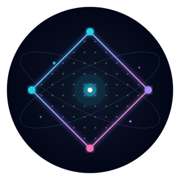
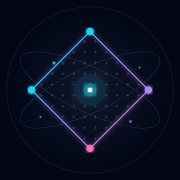
feat(promo,readme): 图标全量换 SVG + PayPal 赞助通道 + README 面向 agent 重写
- promo-page 图标换 SVG：五席头像用 vector 头像（boy-00/04/02/03, girl-01），品牌 logo 用 ai-matrix-logo.svg
- 新增 favicon.ico（16/32/48 多尺寸，由 logo 栅格化）、og.png/apple-touch-icon 以暗底重制（无白底）
- 赞助弹层接入 PayPal 链接（支付宝/微信/PayPal 三通道）
- README 重写：面向 agent 使用者，安装=复制提示词粘给 agent；新增 README.en.md 中英互链

diff --git a/promo-page/assets/sponsor-embed.js b/promo-page/assets/sponsor-embed.js
@@ -20,7 +20,7 @@
   'use strict';
   if (window.SponsorEmbed && window.SponsorEmbed.version) return;
 
-  var MODEL = {"defaultLang":"zh","langs":["zh","en"],"title":{"zh":"赞助支持 · AI Matrix Team","en":"Sponsor AI Matrix Team"},"tagline":{"zh":"五席专家团，开源免费。请他们喝杯咖啡，守门的、施工的、验货的都会记着你的好。","en":"A five-seat crew, free and open source. Buy them a coffee — the gatekeeper, the builder and the auditor will remember you fondly."},"note":{"zh":"","en":""},"foot":{"zh":"由 <a href=\"https://github.com/aispin/iskill-generate-sponsors\" target=\"_blank\" rel=\"noopener noreferrer\">iskill-generate-sponsors</a> 生成 · 2026-10-08","en":"Generated by <a href=\"https://github.com/aispin/iskill-generate-sponsors\" target=\"_blank\" rel=\"noopener noreferrer\">iskill-generate-sponsors</a> · 2026-10-08"},"generatedAt":"2026-10-08","generator":{"name":"iskill-generate-sponsors","url":"https://github.com/aispin/iskill-generate-sponsors"},"ui":{"zh":{"badge":"赞助支持","hint":"点击放大","linksTitle":"其他支持方式","altOf":"{x}收款码","zoomOf":"放大{x}收款码","themeAria":"切换深色 / 浅色","langAria":"切换中文 / English","closeAria":"关闭放大图","popAria":"打开赞助弹窗","popCloseAria":"关闭赞助弹窗","popSecTitle":"也可以点开看","popSecHint":"点下面的按钮，全部赞助方式会在弹层里重新排一遍。","langShort":"EN","empty":"还没有配置外部赞助链接。加一个 <code>--paypal https://paypal.me/你的名字</code> 再来一次。"},"en":{"badge":"SPONSOR","hint":"Tap to enlarge","linksTitle":"Other ways to support","altOf":"{x} QR code","zoomOf":"Enlarge the {x} QR code","themeAria":"Toggle dark / light mode","langAria":"Switch between 中文 / English","closeAria":"Close","popAria":"Open sponsor popup","popCloseAria":"Close sponsor popup","popSecTitle":"Prefer a popup?","popSecHint":"Tap the button below to see every option in a focused overlay.","langShort":"中","empty":"No external sponsor links yet. Add one with <code>--paypal https://paypal.me/yourname</code>, then re-run."}},"qr":[{"key":"alipay","src":"assets/sponsor/alipay.jpg","accent":"#1677FF","label":{"zh":"支付宝","en":"Alipay"},"tip":{"zh":"打开支付宝「扫一扫」","en":"Scan with Alipay"}},{"key":"wechat","src":"assets/sponsor/wechat.jpg","accent":"#07C160","label":{"zh":"微信","en":"WeChat"},"tip":{"zh":"打开微信「扫一扫」","en":"Scan with WeChat"}}],"links":[]};
+  var MODEL = {"defaultLang":"zh","langs":["zh","en"],"title":{"zh":"赞助支持 · AI Matrix Team","en":"Sponsor AI Matrix Team"},"tagline":{"zh":"五席专家团，开源免费。请他们喝杯咖啡，守门的、施工的、验货的都会记着你的好。","en":"A five-seat crew, free and open source. Buy them a coffee — the gatekeeper, the builder and the auditor will remember you fondly."},"note":{"zh":"","en":""},"foot":{"zh":"由 <a href=\"https://github.com/aispin/iskill-generate-sponsors\" target=\"_blank\" rel=\"noopener noreferrer\">iskill-generate-sponsors</a> 生成 · 2026-10-08","en":"Generated by <a href=\"https://github.com/aispin/iskill-generate-sponsors\" target=\"_blank\" rel=\"noopener noreferrer\">iskill-generate-sponsors</a> · 2026-10-08"},"generatedAt":"2026-10-08","generator":{"name":"iskill-generate-sponsors","url":"https://github.com/aispin/iskill-generate-sponsors"},"ui":{"zh":{"badge":"赞助支持","hint":"点击放大","linksTitle":"其他支持方式","altOf":"{x}收款码","zoomOf":"放大{x}收款码","themeAria":"切换深色 / 浅色","langAria":"切换中文 / English","closeAria":"关闭放大图","popAria":"打开赞助弹窗","popCloseAria":"关闭赞助弹窗","popSecTitle":"也可以点开看","popSecHint":"点下面的按钮，全部赞助方式会在弹层里重新排一遍。","langShort":"EN","empty":"还没有配置外部赞助链接。加一个 <code>--paypal https://paypal.me/你的名字</code> 再来一次。"},"en":{"badge":"SPONSOR","hint":"Tap to enlarge","linksTitle":"Other ways to support","altOf":"{x} QR code","zoomOf":"Enlarge the {x} QR code","themeAria":"Toggle dark / light mode","langAria":"Switch between 中文 / English","closeAria":"Close","popAria":"Open sponsor popup","popCloseAria":"Close sponsor popup","popSecTitle":"Prefer a popup?","popSecHint":"Tap the button below to see every option in a focused overlay.","langShort":"中","empty":"No external sponsor links yet. Add one with <code>--paypal https://paypal.me/yourname</code>, then re-run."}},"qr":[{"key":"alipay","src":"assets/sponsor/alipay.jpg","accent":"#1677FF","label":{"zh":"支付宝","en":"Alipay"},"tip":{"zh":"打开支付宝「扫一扫」","en":"Scan with Alipay"}},{"key":"wechat","src":"assets/sponsor/wechat.jpg","accent":"#07C160","label":{"zh":"微信","en":"WeChat"},"tip":{"zh":"打开微信「扫一扫」","en":"Scan with WeChat"}}],"links":[{"label":"PayPal","sub":"www.paypal.com/ncp/payment/SN6RMEF7FNKU4","url":"https://www.paypal.com/ncp/payment/SN6RMEF7FNKU4","accent":"#0070BA"}]};
   var ICON  = {"heart":"<svg viewBox=\"0 0 24 24\" fill=\"none\" stroke=\"currentColor\" stroke-width=\"1.8\" stroke-linecap=\"round\" stroke-linejoin=\"round\"><path d=\"M20.8 8.6c0 4.2-5.4 8-8.8 10.4C8.6 16.6 3.2 12.8 3.2 8.6A4.6 4.6 0 0 1 12 6.4a4.6 4.6 0 0 1 8.8 2.2Z\"/></svg>","link":"<svg viewBox=\"0 0 24 24\" fill=\"none\" stroke=\"currentColor\" stroke-width=\"1.8\" stroke-linecap=\"round\" stroke-linejoin=\"round\"><path d=\"M14 4h6v6\"/><path d=\"M20 4l-8.5 8.5\"/><path d=\"M18 14.5V19a1.5 1.5 0 0 1-1.5 1.5H5A1.5 1.5 0 0 1 3.5 19V7.5A1.5 1.5 0 0 1 5 6h4.5\"/></svg>","qr":"<svg viewBox=\"0 0 24 24\" fill=\"none\" stroke=\"currentColor\" stroke-width=\"1.8\" stroke-linecap=\"round\" stroke-linejoin=\"round\"><rect x=\"3.5\" y=\"3.5\" width=\"6\" height=\"6\" rx=\"1.4\"/><rect x=\"14.5\" y=\"3.5\" width=\"6\" height=\"6\" rx=\"1.4\"/><rect x=\"3.5\" y=\"14.5\" width=\"6\" height=\"6\" rx=\"1.4\"/><path d=\"M14.5 14.5h3v3h-3z\"/><path d=\"M20.5 14.5v6h-6\"/></svg>","expand":"<svg viewBox=\"0 0 24 24\" fill=\"none\" stroke=\"currentColor\" stroke-width=\"1.8\" stroke-linecap=\"round\" stroke-linejoin=\"round\"><path d=\"M9 4H4v5\"/><path d=\"M15 20h5v-5\"/><path d=\"M4 4l6 6\"/><path d=\"M20 20l-6-6\"/></svg>","sun":"<svg viewBox=\"0 0 24 24\" fill=\"none\" stroke=\"currentColor\" stroke-width=\"1.8\" stroke-linecap=\"round\" stroke-linejoin=\"round\"><circle cx=\"12\" cy=\"12\" r=\"4.2\"/><path d=\"M12 2.5v2.2M12 19.3v2.2M2.5 12h2.2M19.3 12h2.2M5.2 5.2l1.6 1.6M17.2 17.2l1.6 1.6M18.8 5.2l-1.6 1.6M6.8 17.2l-1.6 1.6\"/></svg>","moon":"<svg viewBox=\"0 0 24 24\" fill=\"none\" stroke=\"currentColor\" stroke-width=\"1.8\" stroke-linecap=\"round\" stroke-linejoin=\"round\"><path d=\"M20.5 14.2A8.6 8.6 0 0 1 9.8 3.5a8.6 8.6 0 1 0 10.7 10.7Z\"/></svg>"};
   var CSS   = ":host{\n  color-scheme:light;\n  --ink:#0f1b2d; --ink2:#55637a; --ink3:#93a1b4;\n  --line:#e3e9f2; --card:#ffffff; --card-soft:#fafcff;\n  --bg:radial-gradient(900px 480px at 12% -8%,#e8f1ff 0,transparent 62%),\n       radial-gradient(760px 420px at 92% 4%,#e6fbf2 0,transparent 58%),\n       linear-gradient(180deg,#f5f8fc,#eef3f9);\n  --badge-fg:#0b7f68; --badge-bg:#e2f7f1; --badge-line:#bde9dd;\n  --qr-bg:#ffffff; --qr-line:#e3e9f2;\n  --shadow:0 1px 2px rgba(16,32,56,.04), 0 12px 32px -12px rgba(16,32,56,.18);\n  --shadow-hi:0 1px 2px rgba(16,32,56,.05), 0 22px 46px -16px rgba(16,32,56,.26);\n  --code-bg:#eef2f8;\n  --ui-bg:rgba(255,255,255,.82); --ui-line:#e3e9f2;\n  --chip-bg:color-mix(in srgb,var(--accent) 12%,var(--card));\n  --chip-fg:color-mix(in srgb,var(--accent) 62%,var(--ink));\n  --chip-line:color-mix(in srgb,var(--accent) 26%,var(--card));\n}\n:host([data-theme=\"dark\"]){\n  color-scheme:dark;\n  --ink:#eaf0f8; --ink2:#9fadc0; --ink3:#7b8a9d;\n  --line:#22303f; --card:#141d29; --card-soft:#192433;\n  --bg:radial-gradient(900px 480px at 12% -8%,#152337 0,transparent 62%),\n       radial-gradient(760px 420px at 92% 4%,#122a26 0,transparent 58%),\n       linear-gradient(180deg,#0d131d,#111a26);\n  --badge-fg:#8ff0d4; --badge-bg:#122a26; --badge-line:#1e4a41;\n  --qr-bg:#ffffff; --qr-line:#2b3a4b;\n  --shadow:0 1px 2px rgba(0,0,0,.35), 0 12px 32px -12px rgba(0,0,0,.65);\n  --shadow-hi:0 1px 2px rgba(0,0,0,.4), 0 22px 46px -16px rgba(0,0,0,.75);\n  --code-bg:#1b2635;\n  --ui-bg:rgba(20,29,41,.86); --ui-line:#26364a;\n}\n@media(prefers-color-scheme:dark){\n  :host(:not([data-theme=\"light\"])){\n    color-scheme:dark;\n    --ink:#eaf0f8; --ink2:#9fadc0; --ink3:#7b8a9d;\n    --line:#22303f; --card:#141d29; --card-soft:#192433;\n    --bg:radial-gradient(900px 480px at 12% -8%,#152337 0,transparent 62%),\n         radial-gradient(760px 420px at 92% 4%,#122a26 0,transparent 58%),\n         linear-gradient(180deg,#0d131d,#111a26);\n    --badge-fg:#8ff0d4; --badge-bg:#122a26; --badge-line:#1e4a41;\n    --qr-bg:#ffffff; --qr-line:#2b3a4b;\n    --shadow:0 1px 2px rgba(0,0,0,.35), 0 12px 32px -12px rgba(0,0,0,.65);\n    --shadow-hi:0 1px 2px rgba(0,0,0,.4), 0 22px 46px -16px rgba(0,0,0,.75);\n    --code-bg:#1b2635;\n    --ui-bg:rgba(20,29,41,.86); --ui-line:#26364a;\n  }\n}\n*{box-sizing:border-box}\n:host{-webkit-text-size-adjust:100%}\nbody{\n  margin:0; padding:clamp(22px,4vw,36px) clamp(14px,3vw,18px) clamp(34px,5vw,52px); color:var(--ink);\n  font:15px/1.6 -apple-system,BlinkMacSystemFont,\"Segoe UI\",\"PingFang SC\",\"Hiragino Sans GB\",\"Microsoft YaHei\",sans-serif;\n  background:var(--bg); background-attachment:fixed;\n  min-height:100vh; transition:color .2s;\n}\n.wrap{max-width:720px;margin:0 auto}\n\n.hero{text-align:center;margin-bottom:20px}\n.badge{\n  display:inline-flex;align-items:center;gap:6px;\n  font-size:10.5px;font-weight:700;letter-spacing:.16em;\n  color:var(--badge-fg);background:var(--badge-bg);border:1px solid var(--badge-line);\n  padding:4px 11px;border-radius:999px;\n}\n.badge svg{width:12px;height:12px}\n.hero h1{font-size:clamp(19px,3vw,25px);line-height:1.3;margin:10px 0 5px;letter-spacing:-.01em}\n.lede{margin:0;color:var(--ink2);font-size:13.5px}\n\n/* 所有赞助方式（码 + 链接）通栏一行，窄屏自动换行 */\n.qrs{display:flex;flex-wrap:wrap;gap:10px;justify-content:center;align-items:stretch}\n\n.card{\n  --accent:#10C8A1;\n  position:relative;margin:0;width:200px;max-width:100%;\n  background:var(--card);border:1px solid var(--line);border-radius:14px;\n  box-shadow:var(--shadow);padding:10px;\n  display:flex;flex-direction:column;gap:7px;\n  transition:transform .18s,box-shadow .18s;\n  overflow:hidden;\n}\n.card::before{\n  content:\"\";position:absolute;inset:0 0 auto;height:3px;\n  background:linear-gradient(90deg,var(--accent),color-mix(in srgb,var(--accent) 45%,var(--card)));\n}\n.card:hover{transform:translateY(-2px);box-shadow:var(--shadow-hi)}\n\n.card-head{display:flex;align-items:center;gap:8px}\n.chip{\n  display:inline-flex;align-items:center;gap:5px;\n  font-size:11.5px;font-weight:650;\n  color:var(--chip-fg);background:var(--chip-bg);border:1px solid var(--chip-line);\n  padding:3px 9px;border-radius:999px;\n}\n.chip svg{width:12px;height:12px}\n.hint{font-size:10.5px;color:var(--ink3);white-space:nowrap}\n\n.qr{\n  position:relative;display:block;width:100%;padding:7px;margin:0;cursor:zoom-in;\n  background:var(--qr-bg);border:1px solid var(--qr-line);border-radius:10px;\n  transition:border-color .2s,box-shadow .2s;\n}\n.qr:hover{border-color:color-mix(in srgb,var(--accent) 45%,var(--qr-line));box-shadow:0 0 0 3px color-mix(in srgb,var(--accent) 14%,transparent)}\n.qr:focus-visible{outline:2px solid var(--accent);outline-offset:2px}\n.qr img{display:block;width:100%;height:auto;border-radius:5px}\n.zoom{\n  position:absolute;right:12px;bottom:12px;width:26px;height:26px;border-radius:8px;\n  display:grid;place-items:center;color:#fff;background:rgba(15,27,45,.55);\n  backdrop-filter:blur(6px);opacity:0;transition:opacity .2s;\n}\n.zoom svg{width:14px;height:14px}\n.qr:hover .zoom{opacity:1}\n\n/* 链接卡与码卡同构：顶部 chip（图标+名称），中间圆角方容器居中放 名称+链接 */\n.link{\n  --accent:#10C8A1;\n  position:relative;margin:0;width:200px;max-width:100%;\n  display:flex;flex-direction:column;gap:7px;\n  padding:10px;text-decoration:none;color:var(--ink);\n  background:var(--card);border:1px solid var(--line);border-radius:14px;\n  box-shadow:var(--shadow);\n  transition:transform .18s,box-shadow .18s;\n  overflow:hidden;\n}\n.link::before{\n  content:\"\";position:absolute;inset:0 0 auto;height:3px;\n  background:linear-gradient(90deg,var(--accent),color-mix(in srgb,var(--accent) 45%,var(--card)));\n}\n.link:hover{transform:translateY(-2px);box-shadow:var(--shadow-hi)}\n.link:focus-visible{outline:2px solid var(--accent);outline-offset:2px}\n.link-body{\n  flex:1;min-height:150px;\n  display:flex;flex-direction:column;align-items:center;justify-content:center;gap:3px;\n  /* 纯 CSS 生成式底纹：角落两团品牌色柔光 + 同心细环（guilloché 质感），随渠道 accent 变色 */\n  background:\n    radial-gradient(140px 100px at 84% -12%, color-mix(in srgb, var(--accent) 15%, transparent), transparent 70%),\n    radial-gradient(160px 120px at 8% 110%, color-mix(in srgb, var(--accent) 10%, transparent), transparent 72%),\n    repeating-radial-gradient(circle at 108% -18%,\n      color-mix(in srgb, var(--accent) 7%, transparent) 0 1.5px,\n      transparent 1.5px 13px),\n    var(--qr-bg);\n  border:1px solid var(--qr-line);border-radius:10px;\n  padding:7px;text-align:center;\n  /* 容器恒为白底（与码面一致），文字固定深色，不随主题翻转 */\n  color:#0f1b2d;\n}\n.link-name{font-weight:650;font-size:15px}\n.link-sub{font-size:11.5px;color:#55637a;max-width:100%;overflow:hidden;text-overflow:ellipsis;white-space:nowrap}\n.empty{flex-basis:100%;color:var(--ink2);text-align:center}\n.empty code{background:var(--code-bg);padding:2px 6px;border-radius:6px;font-size:13.5px}\n\n.note{margin:16px 0 0;text-align:center;color:var(--ink2);font-size:12.5px}\n.foot{margin-top:22px;text-align:center;font-size:12px;color:var(--ink3)}\n.foot a{color:var(--ink2);text-decoration:none;border-bottom:1px solid var(--line)}\n.foot a:hover{color:var(--ink)}\n\n.tools{position:fixed;top:14px;right:14px;z-index:20;display:flex;gap:7px}\n@media (max-width:520px){.tools{top:10px;right:10px;gap:6px}}\n.icon-btn{\n  width:32px;height:32px;border-radius:10px;padding:0;\n  display:grid;place-items:center;cursor:pointer;color:var(--ink2);\n  background:var(--ui-bg);border:1px solid var(--ui-line);\n  backdrop-filter:blur(10px);box-shadow:0 4px 14px -8px rgba(16,32,56,.5);\n  font-family:inherit;font-size:11.5px;font-weight:700;letter-spacing:.02em;\n}\n@media (max-width:520px){.icon-btn{width:30px;height:30px}}\n.icon-btn:hover{color:var(--ink)}\n.icon-btn svg{width:15px;height:15px}\n.icon-btn:focus-visible{outline:2px solid var(--accent);outline-offset:2px}\n\n.lightbox{\n  position:fixed;inset:0;z-index:60;display:flex;flex-direction:column;\n  align-items:center;justify-content:center;gap:16px;\n  background:rgba(9,16,28,.78);backdrop-filter:blur(10px);\n  padding:32px;cursor:zoom-out;animation:fade .18s ease;\n}\n.lightbox[hidden]{display:none}\n.lightbox img{\n  max-width:min(440px,86vw);max-height:76vh;width:auto;height:auto;\n  background:#fff;padding:14px;border-radius:20px;\n  box-shadow:0 30px 70px -20px rgba(0,0,0,.6);\n}\n.lb-cap{color:#e8eef7;font-size:14.5px;margin:0;letter-spacing:.02em}\n.lb-close{\n  position:absolute;top:20px;right:22px;width:40px;height:40px;border-radius:50%;\n  border:1px solid rgba(255,255,255,.3);background:rgba(255,255,255,.12);color:#fff;\n  font-size:22px;line-height:1;cursor:pointer;\n}\n@keyframes fade{from{opacity:0}to{opacity:1}}\n\n@media(prefers-reduced-motion:reduce){*{transition:none!important;animation:none!important}}\n@media print{\n  body{background:#fff;padding:0}\n  .card,.link{box-shadow:none;break-inside:avoid;background:#fff}\n  .qr{cursor:default}\n  .zoom,.foot,.tools{display:none}\n  .lightbox{display:none}\n}\n.icon-btn .ic-moon{display:none}\n:host([data-theme=\"dark\"]) .icon-btn .ic-sun{display:none}\n:host([data-theme=\"dark\"]) .icon-btn .ic-moon{display:block}\n@media(prefers-color-scheme:dark){\n  :host(:not([data-theme=\"light\"])) .icon-btn .ic-sun{display:none}\n  :host(:not([data-theme=\"light\"])) .icon-btn .ic-moon{display:block}\n}\n\n/* ── 响应式：单列时卡片通栏，只留**左右各 40px** 边距；卡片与内容同步放大 ──\n   原来卡片写死 200px，390 屏下左右各空出约 95px —— 码被挤小、两边一大片白\n   （2026-10-02 用户反馈）。现在 body 左右 40px + 卡片 width:100%，\n   于是卡片宽度 = 视口 − 80（390 屏 → 310px），内边距/字号/圆角一起加上去。 */\n@media (max-width:520px){\n  body{padding:22px 40px 38px}\n  .hero{margin-bottom:16px}\n  .qrs{gap:12px}\n  .card,.link{width:100%}\n  .card{padding:12px;border-radius:14px;gap:9px}\n  .chip{font-size:12.5px;padding:4px 11px}\n  .chip svg{width:13px;height:13px}\n  .hint{font-size:11.5px}\n  .qr{padding:10px;border-radius:12px}\n  .qr img{border-radius:7px}\n  .link{padding:12px;border-radius:14px;gap:9px}\n  .link-body{min-height:0;aspect-ratio:6/5;border-radius:12px}\n  .link-name{font-size:17px}\n  .link-sub{font-size:12.5px}\n  .lightbox{padding:20px}\n  .lb-close{top:14px;right:16px}\n}\n.sponsor-btn{\n  display:inline-flex;align-items:center;gap:8px;\n  padding:11px 22px;border-radius:999px;cursor:pointer;\n  font:inherit;font-size:14px;font-weight:700;letter-spacing:.04em;\n  color:#fff;border:0;\n  background:linear-gradient(135deg,var(--brand,#10C8A1),color-mix(in srgb,var(--brand,#10C8A1) 55%,#6366F1));\n  box-shadow:0 10px 26px -12px color-mix(in srgb,var(--brand,#10C8A1) 70%,transparent);\n  transition:transform .18s,box-shadow .18s;\n}\n.sponsor-btn svg{width:16px;height:16px}\n.sponsor-btn:hover{transform:translateY(-2px);box-shadow:0 14px 30px -12px color-mix(in srgb,var(--brand,#10C8A1) 80%,transparent)}\n.sponsor-btn:focus-visible{outline:2px solid var(--brand,#10C8A1);outline-offset:3px}\n\n.pop{\n  position:fixed;inset:0;z-index:50;display:flex;align-items:center;justify-content:center;\n  background:rgba(9,16,28,.62);backdrop-filter:blur(8px);\n  padding:22px;animation:fade .18s ease;\n}\n.pop[hidden]{display:none}\n.pop-card{\n  position:relative;width:min(700px,100%);max-height:86vh;overflow:auto;\n  background:var(--card);border:1px solid var(--line);border-radius:20px;\n  box-shadow:var(--shadow-hi);padding:22px 18px 18px;\n}\n.pop-head{margin-bottom:16px}\n.pop-head h1{font-size:19px;margin:12px 0 0}\n.pop-close{\n  position:absolute;top:12px;right:14px;width:32px;height:32px;border-radius:50%;\n  border:1px solid var(--line);background:var(--ui-bg);color:var(--ink2);\n  font-size:18px;line-height:1;cursor:pointer;\n}\n.pop-close:hover{color:var(--ink)}\n.pop-card .note{margin-top:14px}\n.pop-card .qrs{gap:12px}\n/* 弹性卡片：先挤到 150px，挤不动才换行 —— 桌面端（≥561px）三种方式恒在一行 */\n.pop-card .qrs > .card,\n.pop-card .qrs > .link{width:auto;flex:1 1 150px;max-width:200px}\n/* 手机：一行一个，卡片同步放大到「距屏幕左右各 40px」——\n   24（.pop 内边距）+ 16（.pop-card 内边距）= 40，与首屏单列卡片对齐；\n   卡片内容（内边距 / chip / 码面圆角）跟着一起放大。 */\n@media (max-width:560px){\n  .pop{padding:24px}\n  .pop-card{padding:20px 16px 18px;border-radius:18px}\n  .pop-card .qrs{gap:14px}\n  .pop-card .qrs > .card,\n  .pop-card .qrs > .link{flex-basis:100%;max-width:none}\n  .pop-card .card,\n  .pop-card .link{padding:12px;border-radius:14px;gap:9px}\n  .pop-card .chip{font-size:12.5px;padding:4px 11px}\n  .pop-card .chip svg{width:13px;height:13px}\n  .pop-card .qr{padding:10px;border-radius:12px}\n  .pop-card .qr img{border-radius:7px}\n  .pop-card .link-body{min-height:0;aspect-ratio:6/5;border-radius:12px}\n  .pop-card .link-name{font-size:17px}\n  .pop-card .link-sub{font-size:12.5px}\n}\n:host{\n  display:block;position:fixed;inset:0;z-index:2147483000;pointer-events:none;\n  font:15px/1.6 -apple-system,BlinkMacSystemFont,\"Segoe UI\",\"PingFang SC\",\"Hiragino Sans GB\",\"Microsoft YaHei\",sans-serif;\n  color:var(--ink);\n}\n.pop,.lightbox{pointer-events:auto}";
 

diff --git a/promo-page/assets/content.js b/promo-page/assets/content.js
@@ -20,18 +20,18 @@ window.PROMO = {
     members: {
       html: {
         zh: '<div class="grid">' +
-          '<div class="card feat"><img class="member-av" src="assets/avatars/team-lead.png" alt="PC" loading="lazy"><h3>PC · 团长</h3><p class="member-role">产研高级总监 · 兼风控守门</p><p>现京东资深总监，兼职产研首脑。老广东人，短发，薄肌，大抵是个真汉子。他极擅交际，常引来女设计师与产品经理送的小吃。风控的门，便由他守着罢。</p></div>' +
-          '<div class="card feat"><img class="member-av" src="assets/avatars/product-designer.png" alt="毛毛" loading="lazy"><h3>毛毛</h3><p class="member-role">资深产品设计师</p><p>前京东的美人，黑长直。如今身兼产品、交互、视觉三职。她是极看透了的，喜欢谈恋爱，却不愿踏进婚姻的坟。这大抵是新时代女性的一种清醒罢。</p></div>' +
-          '<div class="card feat"><img class="member-av" src="assets/avatars/developer.png" alt="Bruce" loading="lazy"><h3>Bruce</h3><p class="member-role">资深研发工程师 · 兼架构速断</p><p>前美团全栈悍将，广东茂名人。终日与编码纠缠还不够，偏要去徒步，去踢足球。南国的烈日，大约给了他无尽的精力。</p></div>' +
-          '<div class="card feat"><img class="member-av" src="assets/avatars/qa.png" alt="石头" loading="lazy"><h3>石头</h3><p class="member-role">资深质检工程师 · 独立审计</p><p>中通资深研发专家。广西容县人，两眼一睁，便能看穿千万BUG。若想吃正宗沙田柚，找他，大抵是错不了的。</p></div>' +
-          '<div class="card feat"><img class="member-av" src="assets/avatars/devops.png" alt="波波" loading="lazy"><h3>波波</h3><p class="member-role">资深运维工程师 · 发布回滚</p><p>某公司CEO，兼运维工程师。久居西安数十载，80后第一批软件工程师。性格豪爽，极爱饮酒。代码与酒，怕是他生命中唯二的解药。</p></div>' +
+          '<div class="card feat"><img class="member-av" src="assets/avatars/team-lead.svg" alt="PC" loading="lazy"><h3>PC · 团长</h3><p class="member-role">产研高级总监 · 兼风控守门</p><p>现京东资深总监，兼职产研首脑。老广东人，短发，薄肌，大抵是个真汉子。他极擅交际，常引来女设计师与产品经理送的小吃。风控的门，便由他守着罢。</p></div>' +
+          '<div class="card feat"><img class="member-av" src="assets/avatars/product-designer.svg" alt="毛毛" loading="lazy"><h3>毛毛</h3><p class="member-role">资深产品设计师</p><p>前京东的美人，黑长直。如今身兼产品、交互、视觉三职。她是极看透了的，喜欢谈恋爱，却不愿踏进婚姻的坟。这大抵是新时代女性的一种清醒罢。</p></div>' +
+          '<div class="card feat"><img class="member-av" src="assets/avatars/developer.svg" alt="Bruce" loading="lazy"><h3>Bruce</h3><p class="member-role">资深研发工程师 · 兼架构速断</p><p>前美团全栈悍将，广东茂名人。终日与编码纠缠还不够，偏要去徒步，去踢足球。南国的烈日，大约给了他无尽的精力。</p></div>' +
+          '<div class="card feat"><img class="member-av" src="assets/avatars/qa.svg" alt="石头" loading="lazy"><h3>石头</h3><p class="member-role">资深质检工程师 · 独立审计</p><p>中通资深研发专家。广西容县人，两眼一睁，便能看穿千万BUG。若想吃正宗沙田柚，找他，大抵是错不了的。</p></div>' +
+          '<div class="card feat"><img class="member-av" src="assets/avatars/devops.svg" alt="波波" loading="lazy"><h3>波波</h3><p class="member-role">资深运维工程师 · 发布回滚</p><p>某公司CEO，兼运维工程师。久居西安数十载，80后第一批软件工程师。性格豪爽，极爱饮酒。代码与酒，怕是他生命中唯二的解药。</p></div>' +
           '</div>',
         en: '<div class="grid">' +
-          '<div class="card feat"><img class="member-av" src="assets/avatars/team-lead.png" alt="PC" loading="lazy"><h3>PC · Lead</h3><p class="member-role">Delivery Director · Risk gatekeeper</p><p>Senior director at JD.com and the head of product-engineering. A Cantonese veteran — short hair, lean muscle, very much his own man. So sociable that the designers and PMs keep sending snacks his way. The gate of risk control? He holds it.</p></div>' +
-          '<div class="card feat"><img class="member-av" src="assets/avatars/product-designer.png" alt="Mao" loading="lazy"><h3>毛毛 Mao</h3><p class="member-role">Senior Product Designer</p><p>Ex-JD.com. Product, interaction and visual design — three hats, one head. She has seen through it all: loves romance, wants no part in the grave of marriage. Call it the clarity of a new-era woman.</p></div>' +
-          '<div class="card feat"><img class="member-av" src="assets/avatars/developer.png" alt="Bruce" loading="lazy"><h3>Bruce</h3><p class="member-role">Senior Development Engineer</p><p>Ex-Meercat (Meituan) full-stack warrior from Maoming, Guangdong. Coding all day is not enough — he also hikes and plays football. The southern sun must have wired him with endless energy.</p></div>' +
-          '<div class="card feat"><img class="member-av" src="assets/avatars/qa.png" alt="Xue" loading="lazy"><h3>石头 Xue</h3><p class="member-role">Senior QA Engineer · Independent audit</p><p>Senior engineer at ZTO Express, from Rongxian, Guangxi. Eyes open, a thousand bugs spotted. Want an authentic Shatian pomelo? Ask him — odds are he won\'t disappoint.</p></div>' +
-          '<div class="card feat"><img class="member-av" src="assets/avatars/devops.png" alt="Bo" loading="lazy"><h3>波波 Bo</h3><p class="member-role">Senior DevOps Engineer · Release &amp; rollback</p><p>CEO of a company, and a DevOps engineer. Two decades in Xi\'an, among the first batch of software engineers of the 80s generation. Bold and fond of his drinks — code and liquor are the only two antidotes in his life.</p></div>' +
+          '<div class="card feat"><img class="member-av" src="assets/avatars/team-lead.svg" alt="PC" loading="lazy"><h3>PC · Lead</h3><p class="member-role">Delivery Director · Risk gatekeeper</p><p>Senior director at JD.com and the head of product-engineering. A Cantonese veteran — short hair, lean muscle, very much his own man. So sociable that the designers and PMs keep sending snacks his way. The gate of risk control? He holds it.</p></div>' +
+          '<div class="card feat"><img class="member-av" src="assets/avatars/product-designer.svg" alt="Mao" loading="lazy"><h3>毛毛 Mao</h3><p class="member-role">Senior Product Designer</p><p>Ex-JD.com. Product, interaction and visual design — three hats, one head. She has seen through it all: loves romance, wants no part in the grave of marriage. Call it the clarity of a new-era woman.</p></div>' +
+          '<div class="card feat"><img class="member-av" src="assets/avatars/developer.svg" alt="Bruce" loading="lazy"><h3>Bruce</h3><p class="member-role">Senior Development Engineer</p><p>Ex-Meercat (Meituan) full-stack warrior from Maoming, Guangdong. Coding all day is not enough — he also hikes and plays football. The southern sun must have wired him with endless energy.</p></div>' +
+          '<div class="card feat"><img class="member-av" src="assets/avatars/qa.svg" alt="Xue" loading="lazy"><h3>石头 Xue</h3><p class="member-role">Senior QA Engineer · Independent audit</p><p>Senior engineer at ZTO Express, from Rongxian, Guangxi. Eyes open, a thousand bugs spotted. Want an authentic Shatian pomelo? Ask him — odds are he won\'t disappoint.</p></div>' +
+          '<div class="card feat"><img class="member-av" src="assets/avatars/devops.svg" alt="Bo" loading="lazy"><h3>波波 Bo</h3><p class="member-role">Senior DevOps Engineer · Release &amp; rollback</p><p>CEO of a company, and a DevOps engineer. Two decades in Xi\'an, among the first batch of software engineers of the 80s generation. Bold and fond of his drinks — code and liquor are the only two antidotes in his life.</p></div>' +
           '</div>'
       }
     },

diff --git a/promo-page/index.html b/promo-page/index.html
@@ -15,7 +15,8 @@
 <meta property="og:url" content="https://aispin.github.io/ai-matrix-team/" />
 <meta property="og:image" content="assets/og.png" />
 <meta name="twitter:card" content="summary_large_image" />
-<link rel="icon" type="image/png" href="assets/team.png" />
+<link rel="icon" type="image/svg+xml" href="assets/logo.svg" />
+<link rel="icon" type="image/x-icon" href="assets/favicon.ico" sizes="32x32" />
 <link rel="apple-touch-icon" href="assets/apple-touch-icon.png" />
 <link rel="alternate" hreflang="zh-CN" href="?lang=zh" />
 <link rel="alternate" hreflang="en" href="?lang=en" />
@@ -48,7 +49,7 @@
 <header class="topbar">
   <div class="wrap">
     <a class="brand" href="#">
-      <img src="assets/team.png" alt="" width="26" height="26" />
+      <img src="assets/logo.svg" alt="" width="26" height="26" />
       <span>AI Matrix Team</span>
     </a>
     <nav class="nav">
@@ -97,7 +98,7 @@
           <a class="btn" id="hero-repo" href="#" target="_blank" rel="noopener noreferrer">
             <span data-i18n="hero.ctaSecondary">看源码</span>
           </a>
-          <!-- promo-sponsor:btn -->
+                    <!-- promo-sponsor:btn -->
           <button class="btn" type="button" id="hero-sponsor" data-sponsor-open>
             <svg viewBox="0 0 24 24" fill="none" stroke="currentColor" stroke-width="1.7" stroke-linecap="round" stroke-linejoin="round" aria-hidden="true"><path d="M20.8 8.6c0 4.2-5.4 8-8.8 10.4C8.6 16.6 3.2 12.8 3.2 8.6A4.6 4.6 0 0 1 12 6.4a4.6 4.6 0 0 1 8.8 2.2Z"/></svg>
             <span data-i18n="hero.ctaSponsor">赞助</span>

diff --git a/README.en.md b/README.en.md
@@ -1,0 +1,85 @@
+# AI Matrix Team · A five-seat AI delivery crew
+
+English | [简体中文](README.md)
+
+> **Delivery discipline for AI agents, not another flowchart for humans.** Five seats, five gates: case building → requirements & acceptance → code with quick calls → independent QA → release & rollback, plus a shared-surface gatekeeper. Every phase passes a machine gate; every handoff leaves an auditable trail.
+
+AI Matrix Team is a virtual product-engineering task force. Requirements, product and design all the way to dev, QA and ops — each seat holds one gate. Too many agents burn tokens without moving the work; too few breed confusion and hallucinations. Five is just right.
+
+## The crew
+
+- **PC** (Delivery Director · Lead · Risk gatekeeper): Senior director at JD.com and the head of product-engineering. A Cantonese veteran — short hair, lean muscle, very much his own man. The gate of risk control? He holds it.
+- **毛毛 Mao** (Senior Product Designer · BRD→PRD→interactive draft in one chain): Ex-JD.com. Product, interaction and visual design — three hats, one head. She has seen through it all: loves romance, wants no part in the grave of marriage.
+- **Bruce** (Senior Development Engineer · Architecture quick calls): Ex-Meituan full-stack warrior from Maoming, Guangdong. Coding all day is not enough — he also hikes and plays football.
+- **石头 Xue** (Senior QA Engineer · Independent audit): Senior engineer at ZTO Express, from Rongxian, Guangxi. Eyes open, a thousand bugs spotted. Want an authentic Shatian pomelo? Ask him.
+- **波波 Bo** (Senior DevOps Engineer · Release & rollback): CEO of a company, and a DevOps engineer. Two decades in Xi'an, among the first batch of software engineers of the 80s generation. Code and liquor are the only two antidotes in his life.
+
+## Install: paste the prompt to your agent
+
+**Regular agents (Codex / Claude Code) install it as a skill; WorkBuddy installs the whole expert team.** Copy one block below and paste it into the right chat — the agent does the rest.
+
+**Codex** (into `~/.codex/skills/` or the project's `.agents/skills/`):
+
+```text
+Install https://github.com/aispin/ai-matrix-team as a skill: clone it into ~/.codex/skills/ai-matrix-team, then read its SKILL.md and tell me how to use it
+```
+
+**Claude Code** (into `~/.claude/skills/` or the project's `.claude/skills/`):
+
+```text
+Install https://github.com/aispin/ai-matrix-team as a skill: clone it into ~/.claude/skills/ai-matrix-team, then read its SKILL.md and tell me how to use it
+```
+
+**WorkBuddy** (expert-team form, the whole crew onboards):
+
+```text
+Install the AI Matrix Team expert team: https://github.com/aispin/ai-matrix-team — follow SKILL.md to onboard this project (project profile, skill symlinks, expert packages), then run a gate check
+```
+
+You can also search "AI Matrix Team" in the WorkBuddy **Expert Center** and enable it directly.
+
+## Usage: say what you want
+
+Once installed, you only make two kinds of calls — **state the need, make the decisions**. The gates are machine-enforced:
+
+```text
+Onboard a new app — run the full pipeline from business case to release
+```
+
+PC opens the work order (WO) and dispatches seat by seat: Mao writes BRD→PRD→design draft, Bruce builds to spec, Xue runs independent acceptance, Bo owns the release. Every phase passes a machine gate; decisions that are yours get pinged to you, and everything lands in the handoff ledger.
+
+Landing page (capabilities & crew, live): **https://aispin.github.io/ai-matrix-team/**
+
+## For source readers
+
+This repo is decoupled from specific projects: the governance engine, role sources, seat skills and the console live here; WO/DR ledgers, project profiles and surface rules live in the target project's thin `.ai-matrix-team/` layer. Onboarding details are in [`SKILL.md`](SKILL.md).
+
+```text
+├── SKILL.md            installer skill (the agent reads this to onboard/upgrade/check)
+├── members/            role sources (five seats, one file each)
+├── aimatrix-*/         seat skills (9: 6 roles + architect deep-read + guardian gate + guard/decision tools)
+├── scripts/            CLIs: guard gates · inspect sweeps · expert-sync packaging · init · install · DR toolchain
+├── docs/               governance specs 01-08 + index cards + templates
+├── dashboard/          the console (Vite + React, reads the project thin layer via --project)
+├── promo-page/         landing page source (published to the gh-pages branch)
+└── assets/             team overview art + avatars
+```
+
+Manual onboarding (the agent does this automatically; for those who want to run it by hand):
+
+```bash
+node <repo>/scripts/aimatrix-init.mjs --project <project-root>        # 1. project profile
+node <repo>/scripts/install-to-workbuddy.mjs --project <project-root> # 2. skill symlinks
+node <repo>/scripts/expert-sync.mjs                                   # 3. expert packages (first time)
+node <repo>/scripts/aimatrix-guard.mjs agents --project <project-root> # 4. gate check
+```
+
+Day-to-day gates:
+
+```bash
+node <repo>/scripts/aimatrix-guard.mjs --project <project-root> surface <paths...>   # classify surfaces
+node <repo>/scripts/aimatrix-guard.mjs --project <project-root> check --wo <id> --paths <paths...>
+node <repo>/scripts/aimatrix-guard.mjs --project <project-root> dr scan --blocking --wo <id>
+```
+
+Start from the index cards in [`docs/index/`](docs/index/); the charter is [`docs/01-charter.md`](docs/01-charter.md).
